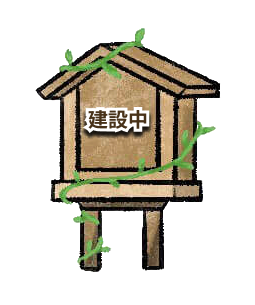
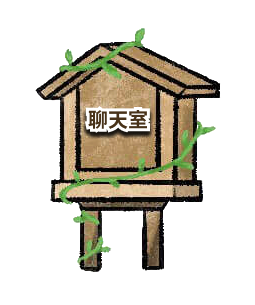
修改mpa的連結與js和商城rwd

Changed region(s): [[0.302, 0.3246, 0.6039, 0.4721]]

diff --git a/index_map.html b/index_map.html
@@ -69,7 +69,7 @@
        <a href="gameChoose.html"><img class="house_3" src="IMG/index/map/house_3.png" alt=""></a>
        <a href="diary_new.html"><img class="house_4" src="IMG/index/map/house_4.png" alt=""></a>
        <a href="activity.html"><img class="house_5" src="IMG/index/map/house_5.png" alt=""></a> 
-        <a href=""><img class="house_6" src="IMG/index/map/house_6.png" alt=""></a> 
+        <a href="chat_chatroom.html"><img class="house_6" src="IMG/index/map/house_6.png" alt=""></a> 
 
 
 
@@ -77,11 +77,11 @@
       <a href="gameChoose.html"><img class="bulletin_board_3" src="IMG/index/map/bulletin_board_3.png" alt=""></a>   
       <a href="diary_new.html"><img class="bulletin_board_4" src="IMG/index/map/bulletin_board_4.png" alt=""></a>  
        <a href="activity.html"><img class="bulletin_board_5" src="IMG/index/map/bulletin_board_5.png" alt=""></a>  
-       <a href=""><img class="bulletin_board_6" src="IMG/index/map/bulletin_board_6.png" alt=""></a>  
+       <a href="chat_chatroom.html"><img class="bulletin_board_6" src="IMG/index/map/bulletin_board_6.png" alt=""></a>  
 
 
         <img src="IMG/index/map/think_2.png" class="think_2">
-        <!-- <img src="IMG/index/map/think_6.png" class="think_6"> -->
+        <img src="IMG/index/map/think_6.png" class="think_6">
         <img src="IMG/index/map/think_5.png" class="think_5">
         <img src="IMG/index/map/think_4.png" class="think_4">
         <img src="IMG/index/map/think_3.png" class="think_3">

diff --git a/CSS/store/store_dress.css b/CSS/store/store_dress.css
@@ -814,4 +814,14 @@ body {
     background-repeat: no-repeat;
     background-position: center center;
 }
+
+
+.record #pay_record {
+  width: 50px;
+  position: absolute;
+  top: 53%;
+  left: 10%;
+  cursor: pointer;
+  filter: drop-shadow(rgba(0, 0, 0, 0.408) 3px 3px 3px);
+}
 }
